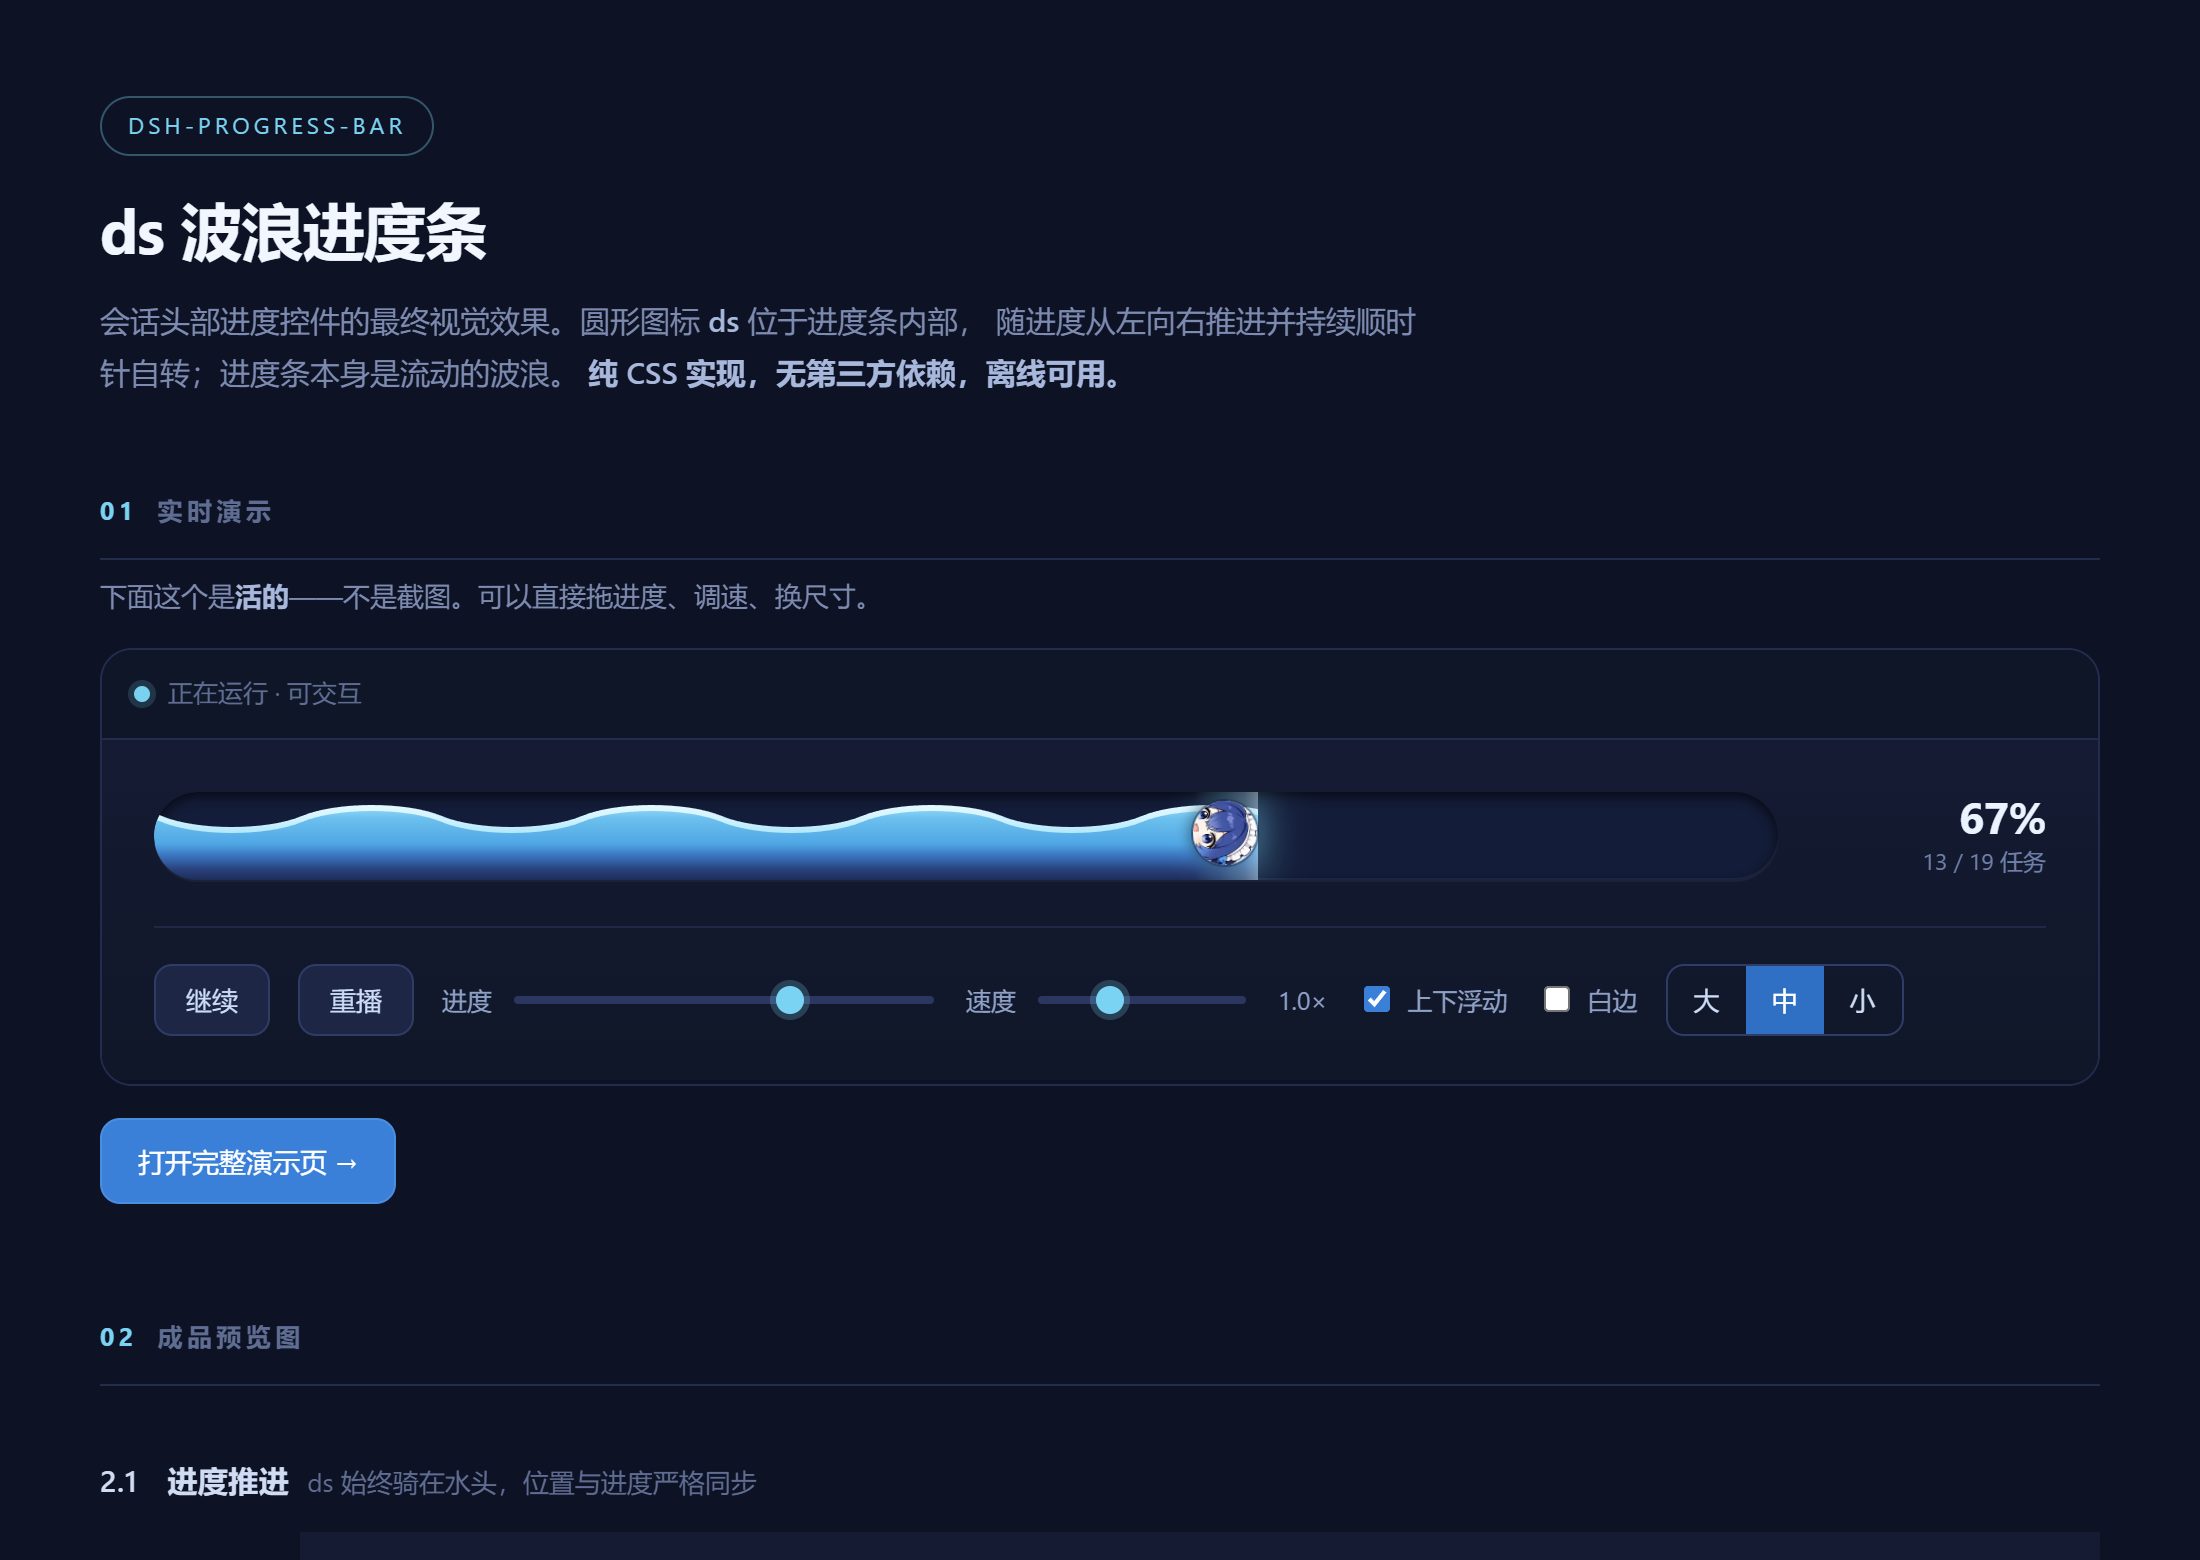
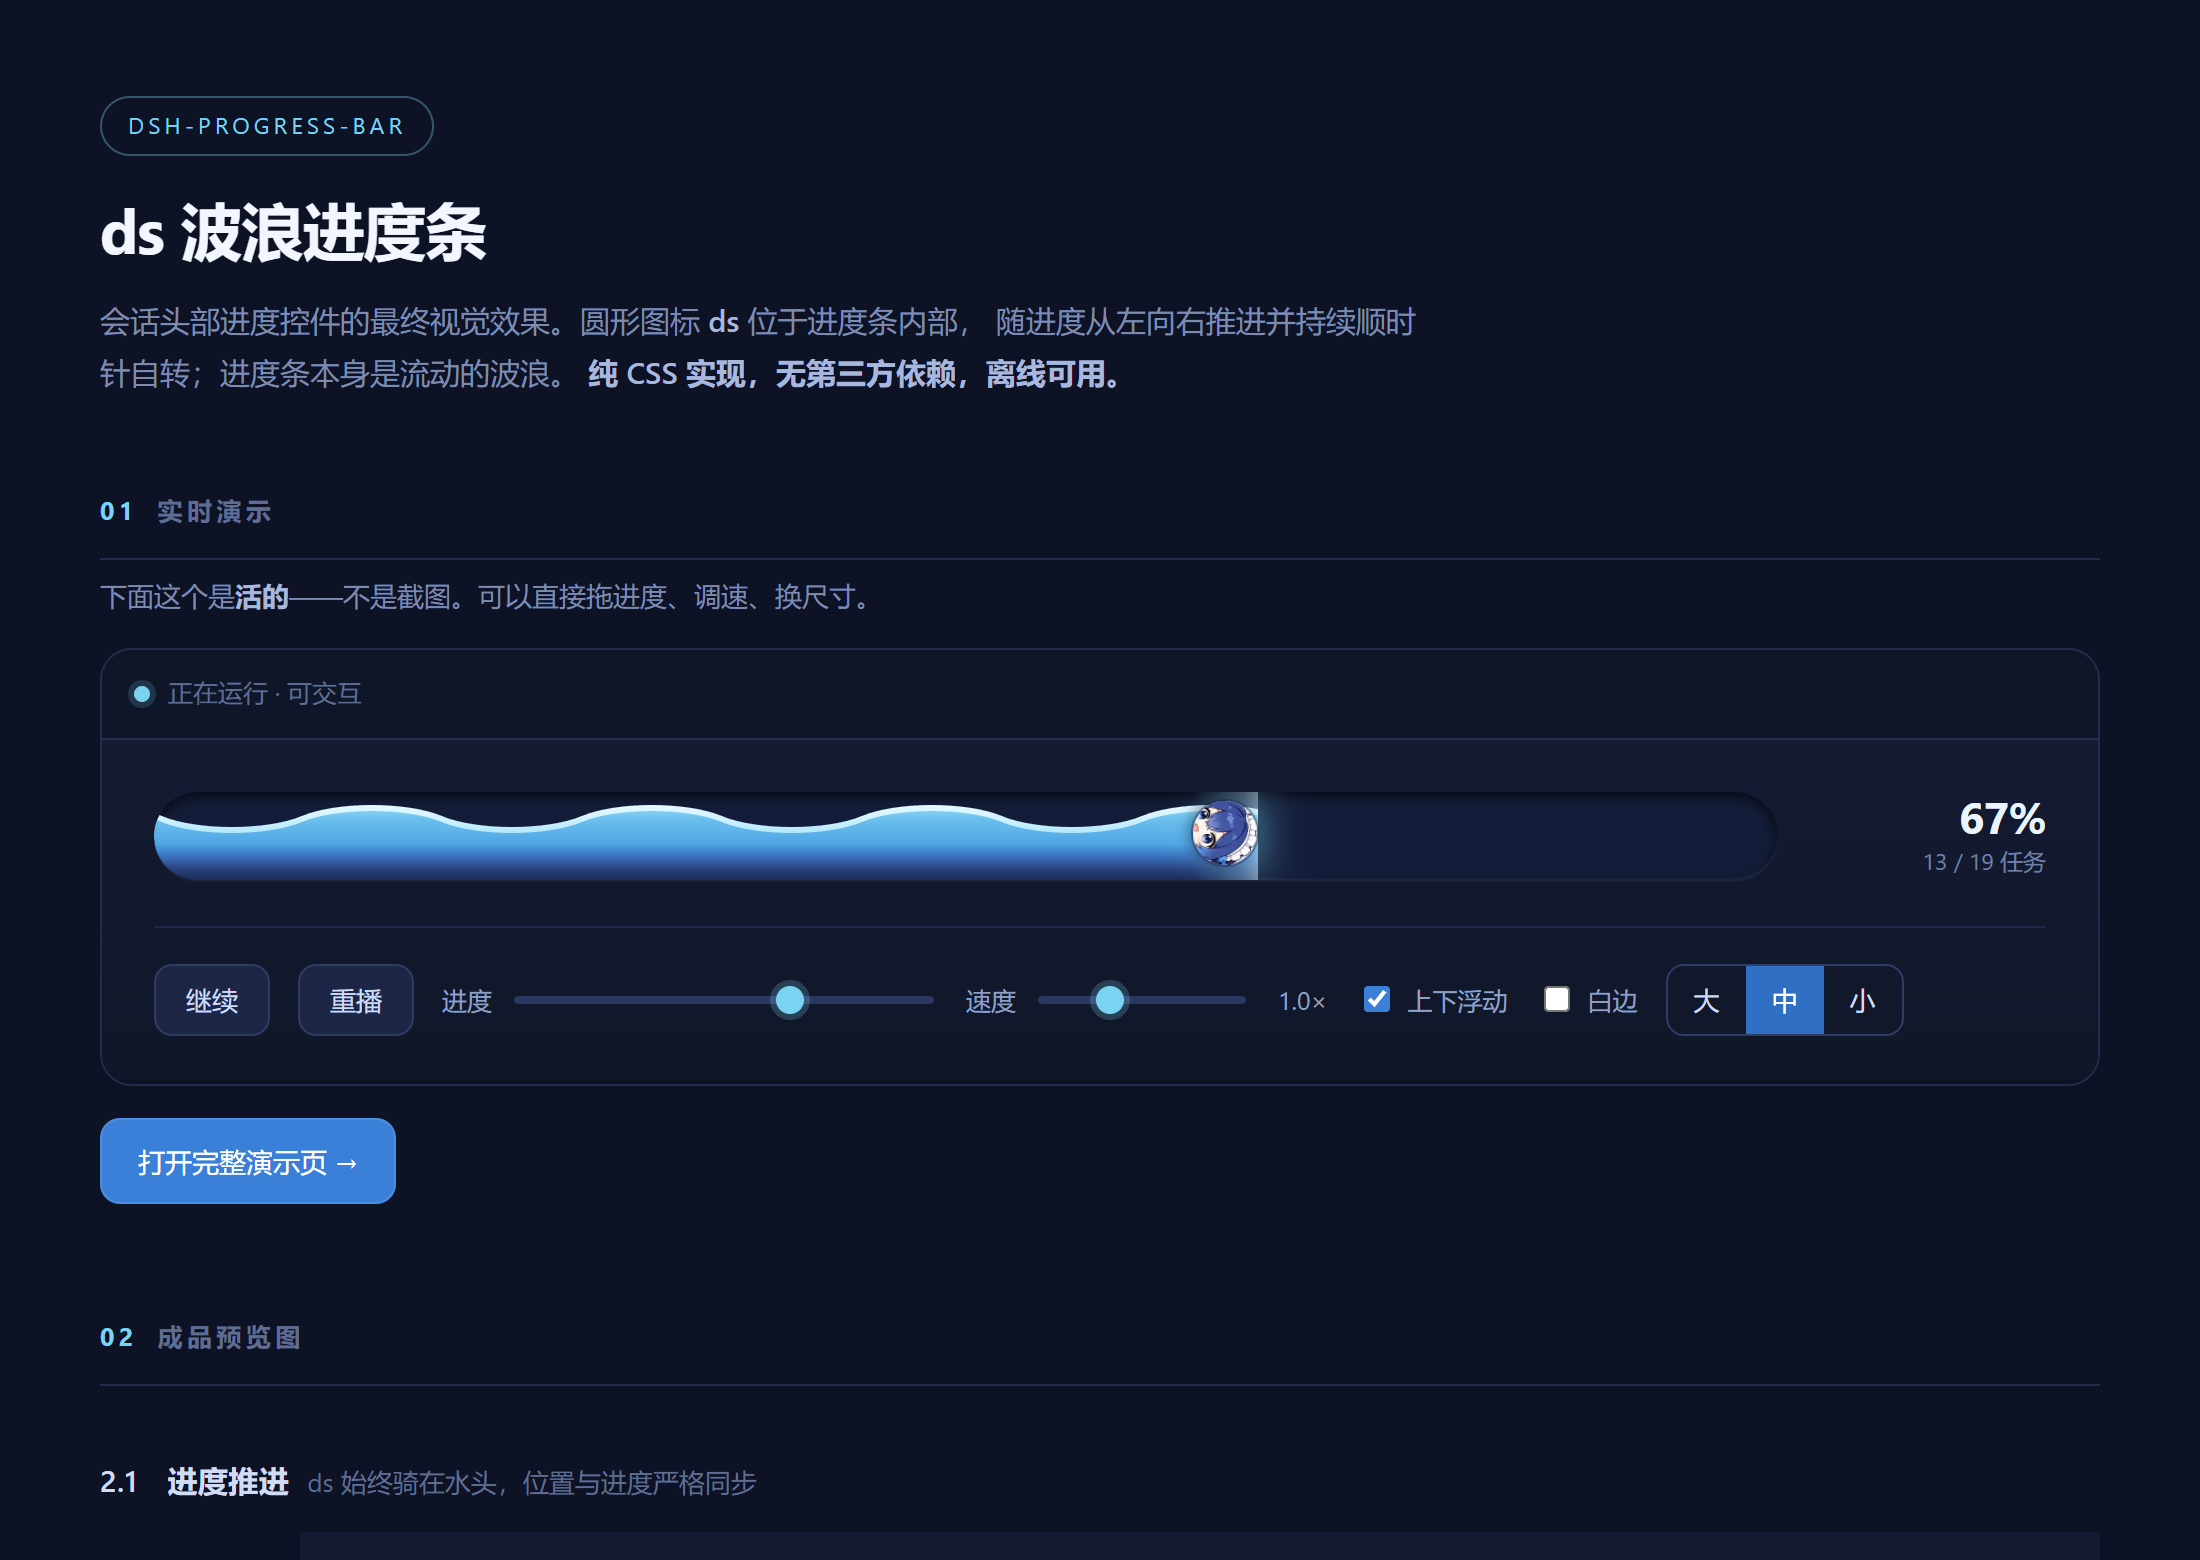
docs: 预览图移除角色创作过程（03 设计稿整节）

diff --git a/README.md b/README.md
@@ -39,7 +39,7 @@ DeepSeek Harness Web 客户端的**会话头部进度控件**：一条横放的 
 
 **实测过**（Playwright 驱动本机 Edge 渲染真实组件 + 真实 CSS 管线）：五个进度值下 **水头与 ds 圆心误差 0.000px**；0% 左缘 / 100% 右缘精确等于 `pad`（100% 那次把自转定格在 rotation=0 才量）；浪花亮边 **2.5–3.0 CSS px** 且在 9 个相位（含 18000/30000ms）偏移恒为 2.984px，两个波浪动画 `startTime` 差 0ms、keyframes 完全相同（**不可能错相**）；`.wave` 盒底与 `.water` 顶边 DOM 上**完全重合**；三档尺寸下水面高度 = 槽高 34%；`prefers-reduced-motion` 下动画数为 0 且静态仍保留完整波形与 3px 浪花边；深浅主题下水体饱和度**完全相同**（固定色、不被主题洗灰）；展开面板 top = root.bottom + 5px、窄窗 400px 时仍夹在视口内（left 20 / right 12）。
 
-**没有实测**：真实 DSH 会话头部的总高（需要已登录的 GUI）；浅色主题下的实际观感；面板内部的 `StateDot`/图标（验证夹具里 `@deepseek-ai/dsh-client-ui-primitives` 是桩件）；`reference/showcase.html` 里两张过程图（`_avatar_variants.png`、`_dsprobe.png`）**源文件未随素材交付**，渲染预览图时把它们设为不可见，其余原样。
+**没有实测**：真实 DSH 会话头部的总高（需要已登录的 GUI）；浅色主题下的实际观感；面板内部的 `StateDot`/图标（验证夹具里 `@deepseek-ai/dsh-client-ui-primitives` 是桩件）。
 
 ---
 
@@ -63,7 +63,7 @@ DeepSeek Harness Web 客户端的**会话头部进度控件**：一条横放的 
 | `docs/preview.png` | 汇总页首屏：实时演示条（定格在 67%）+ 控制栏 |
 | `docs/showcase.png` | 汇总页整页：五进度态 / 三档尺寸 / 深浅主题 / 无白边对照 / 泳姿 |
 
-渲染脚本不随本仓库提供（它属于我的验证工程）。渲染时把两张过程图 `_avatar_variants.png` 与 `_dsprobe.png` 设为不可见 —— 这两个文件**没有随 `reference/` 一起交付**，不处理就会渲染成破图；其余图片原样。
+渲染脚本不随本仓库提供（它属于我的验证工程）。出图时做了两处裁剪：**移除汇总页的「03 设计稿」整节**（3.1 角色形象 / 3.2 头像取景 / 3.3 完整设计稿 / 3.4 可辨识度验证），以及文件清单里两行属于角色创作流水线的条目（`design-final-lite.html`、`_avatar.py`）。`reference/showcase.html` 原件**未改动**，仍保留完整设计过程。
 
 **实机截图待补**：真机头部与展开面板需要已登录的会话才能截，我这边拿不到登录态，所以留空：
 
